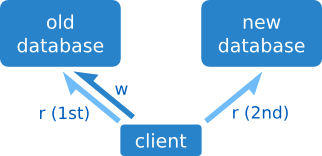
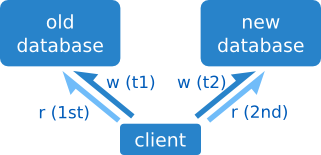
Make on 2015-11-14T01:22:24Z

diff --git a/2015/arquitectura-fluida-2-estrategias-migracion.html b/2015/arquitectura-fluida-2-estrategias-migracion.html
@@ -242,12 +242,10 @@ function getAdapter(address) {
 <img src="pics/dual-lookup.png" alt="Dual lookup" /><p class="caption">Dual lookup</p>
 </div>
 <p>Esta técnica es muy sencilla: empezamos a escribir en la nueva base de datos, y a la hora de leer leemos de ambas: primero miramos en la nueva, y si no está, tiramos de la antigua.</p>
-<p>Los condicionantes de esta estrategia pueden hacer que no sean válidos en muchas situaciones:</p>
-<ul>
-<li>el tiempo de lectura se duplica.</li>
-<li>si hay dos versiones de un mismo registro, se leerá sólo la nueva.</li>
-</ul>
-<h3 id="reversible-sí-1">Reversible: sí</h3>
+<p>La migración de datos en el servidor se puede hacer con una sencilla copia en caliente.</p>
+<p>El mayor problema es que el tiempo de lectura se duplica.</p>
+<h3 id="reversible-casi">Reversible: casi</h3>
+<p>Esta estrategia es reversible por su propio diseño. Pero puede haber un problema de pérdida de datos si no tenemos cuidado con la migración inversa: si volvemos a la base de datos antigua sin más, perderemos todas las actualizaciones desde la migración. Una copia inversa en caliente puede aliviar en parte este problema.</p>
 <h3 id="código-de-ejemplo-2">Código de ejemplo</h3>
 <pre><code>exports.db = {
     v1: new RedisAdapter(settings.oldRedis),
@@ -255,9 +253,9 @@ function getAdapter(address) {
 };</code></pre>
 <p>y el cliente:</p>
 <pre><code>function get(key, callback) {
-    db.v1.get(key, function(error, result) {
+    db.v2.get(key, function(error, result) {
         if (error || result) callback(error, result);
-        db.v2.get(key, callback);
+        db.v1.get(key, callback);
     });
 }</code></pre>
 <blockquote>
@@ -309,10 +307,12 @@ exports.CleverAdapter = function(name, address) {
 </blockquote>
 <p>Cualquier despliegue de código en caliente es una conversión <em>in situ</em>, sobre todo si lleva aparejado un cambio de esquemas en la base de datos.</p>
 <h1 id="catálogo-de-estrategias-en-broker">Catálogo de estrategias en broker</h1>
+<p>A continuación vamos a ver algunas estrategias que dependen de una máquina intermedia entre el cliente y el servidor. Vamos a llamarlo “broker”.</p>
 <h2 id="acceso-mediante-proxy">Acceso mediante proxy</h2>
 <div class="figure">
 <img src="pics/proxied-access.png" alt="Proxied access" /><p class="caption">Proxied access</p>
 </div>
+<p>El broker es en este caso un proxy: envía las consultas a un servidor.</p>
 <blockquote>
 <h4>Caso práctico</h4>
 <p>Instagram</p>

diff --git a/md/arquitectura-fluida-2-estrategias-migracion.md b/md/arquitectura-fluida-2-estrategias-migracion.md
@@ -443,13 +443,17 @@ y a la hora de leer leemos de ambas:
 primero miramos en la nueva, y si no está,
 tiramos de la antigua.
 
-Los condicionantes de esta estrategia pueden hacer que no sean válidos
-en muchas situaciones:
+La migración de datos en el servidor se puede hacer con una sencilla copia en caliente.
 
-* el tiempo de lectura se duplica.
-* si hay dos versiones de un mismo registro, se leerá sólo la nueva.
+El mayor problema es que el tiempo de lectura se duplica.
 
-### Reversible: sí
+### Reversible: casi
+
+Esta estrategia es reversible por su propio diseño.
+Pero puede haber un problema de pérdida de datos si no tenemos cuidado con la migración inversa:
+si volvemos a la base de datos antigua sin más,
+perderemos todas las actualizaciones desde la migración.
+Una copia inversa en caliente puede aliviar en parte este problema.
 
 ### Código de ejemplo
 
@@ -464,9 +468,9 @@ y el cliente:
 
 ```
 function get(key, callback) {
-    db.v1.get(key, function(error, result) {
+    db.v2.get(key, function(error, result) {
         if (error || result) callback(error, result);
-        db.v2.get(key, callback);
+        db.v1.get(key, callback);
     });
 }
 ```
@@ -533,9 +537,17 @@ sobre todo si lleva aparejado un cambio de esquemas en la base de datos.
 
 # Catálogo de estrategias en broker
 
+A continuación vamos a ver algunas estrategias
+que dependen de una máquina intermedia
+entre el cliente y el servidor.
+Vamos a llamarlo “broker”.
+
 ## Acceso mediante proxy
 
 ![Proxied access](pics/proxied-access.png)
+
+El broker es en este caso un proxy:
+envía las consultas a un servidor.
 
 > #### Caso práctico
 > 
